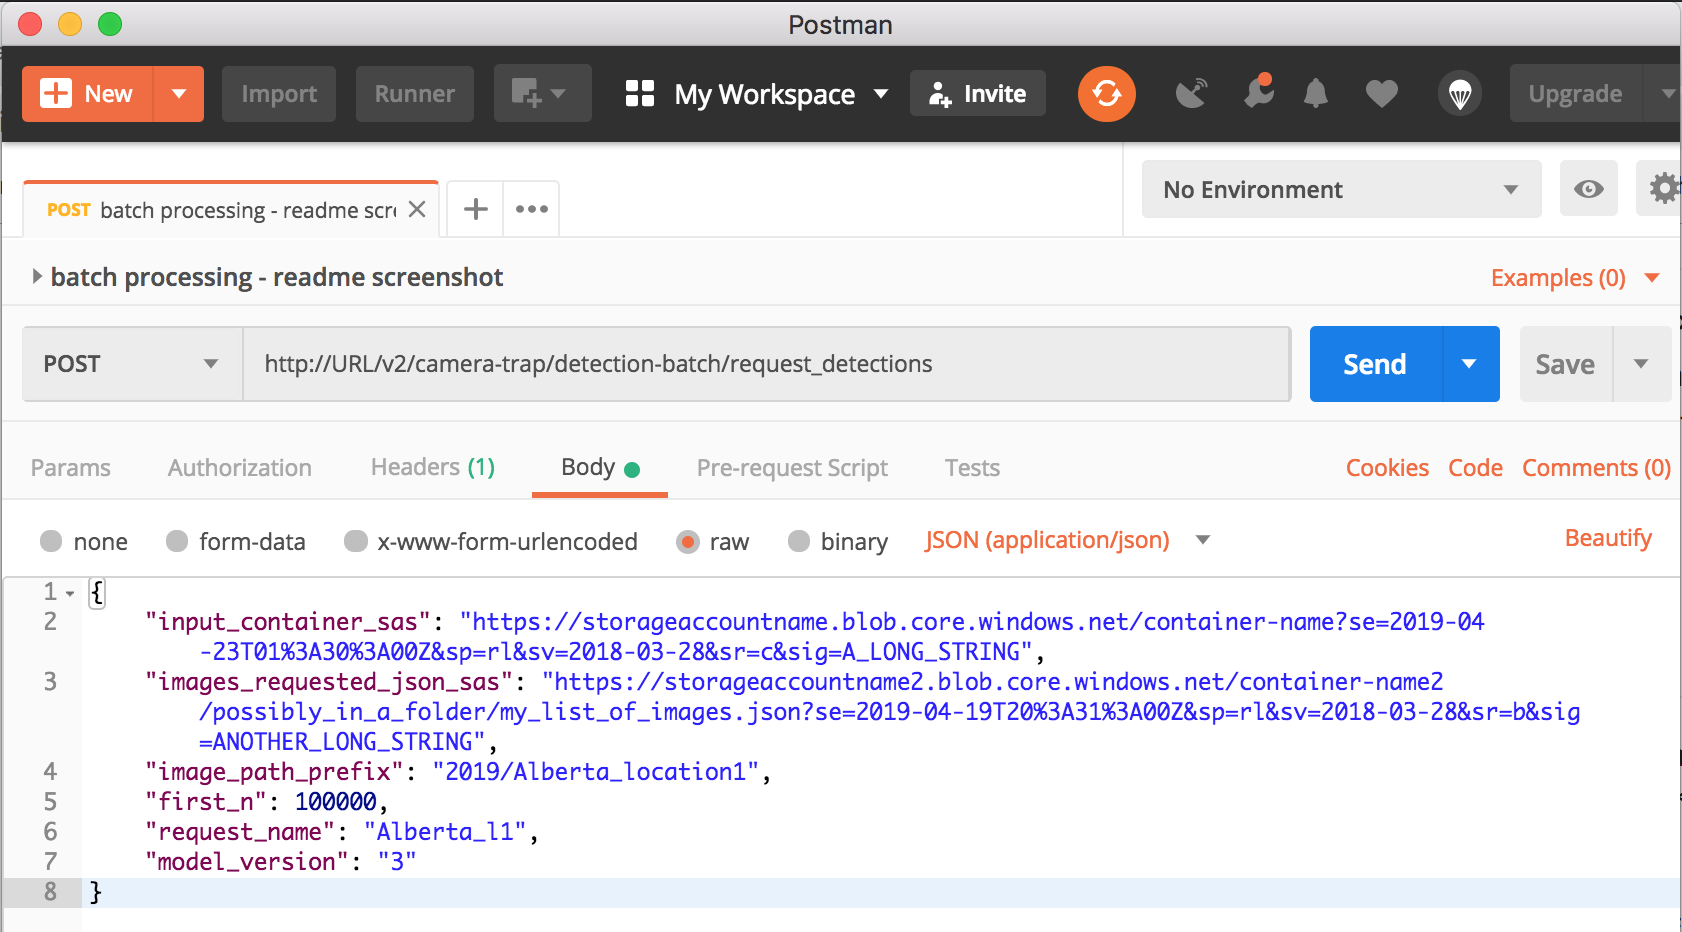
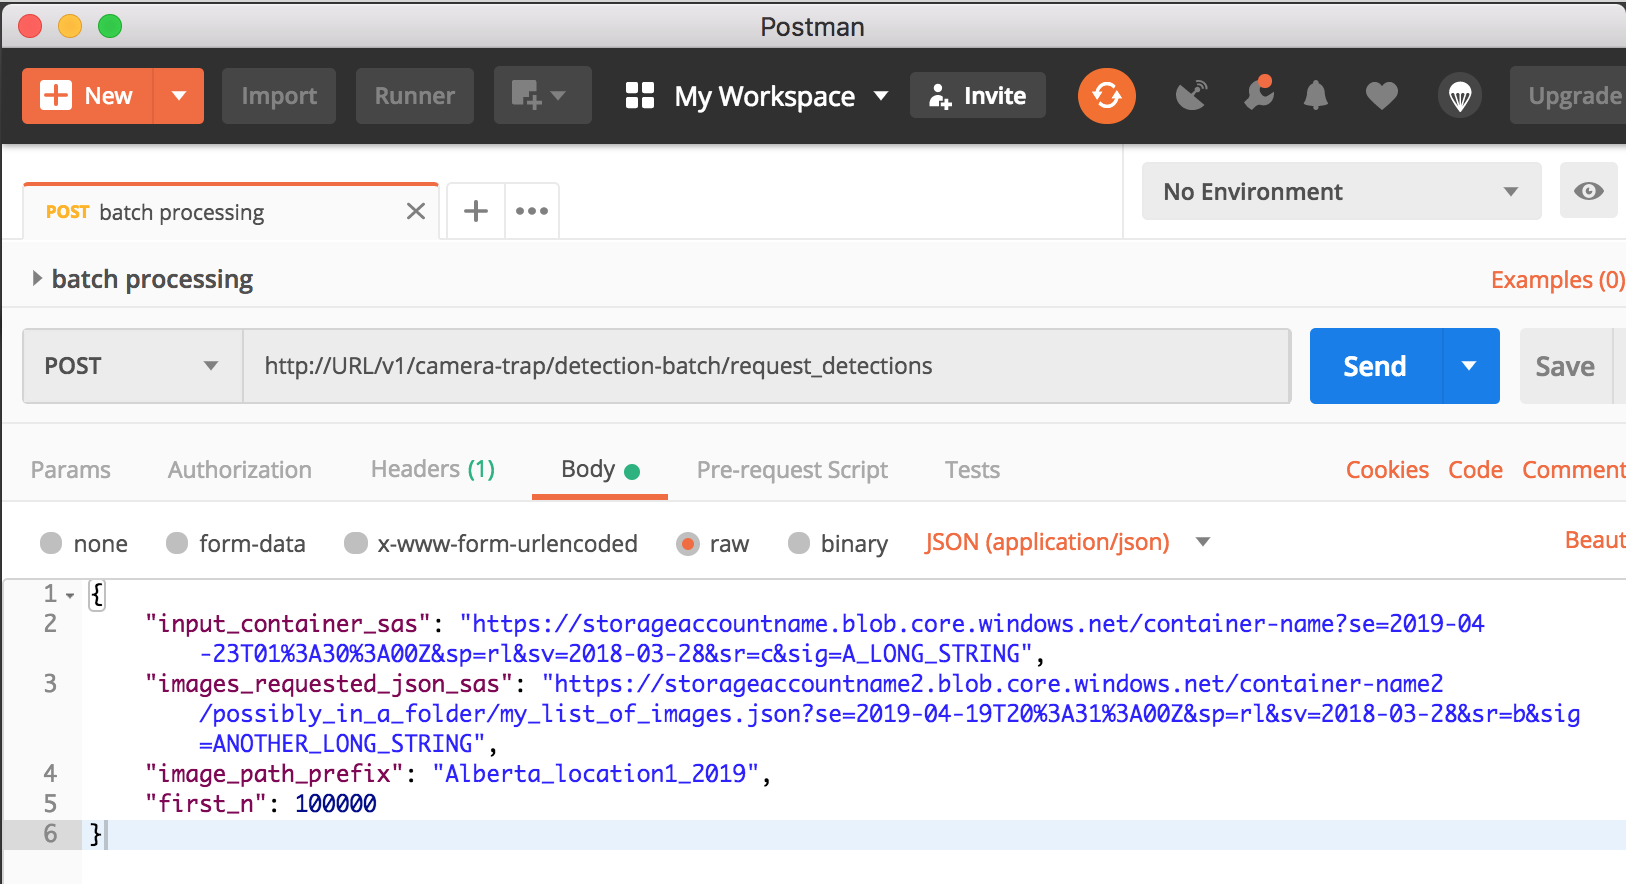
Use new output format. Add request_name and model_version as parameters to the API.
Former-commit-id: a4e58b96b03d6dce2a85e67899db4e080f879cf0

diff --git a/api/batch_processing/api/orchestrator_api/aml_scripts/score.py b/api/batch_processing/api/orchestrator_api/aml_scripts/score.py
@@ -76,21 +76,6 @@ class BatchScorer:
         print('BatchScorer, download_images(), use_url is {}, metadata_available is {}'.format(
             self.use_url, self.metadata_available))
 
-        if not self.use_url:
-            print('blob_service created')
-            blob_service = BlockBlobService(
-                account_name=BatchScorer.get_account_from_uri(self.input_container_sas),
-                sas_token=BatchScorer.get_sas_key_from_uri(self.input_container_sas))
-            container_name = BatchScorer.get_container_from_uri(self.input_container_sas)
-
-        for i in self.image_ids_to_score:
-            if self.metadata_available:
-                image_id = i[0]
-                image_meta = i[1]
-            else:
-                image_id = i
-                image_meta = None
-
         for image_id in self.image_ids_to_score:
             try:
                 if self.use_url:

diff --git a/api/batch_processing/api/orchestrator_api/api_config.py b/api/batch_processing/api/orchestrator_api/api_config.py
@@ -1,3 +1,5 @@
+import json
+
 # name of the container in the internal storage account to store user facing files:
 # image list, detection results and failed images list.
 INTERNAL_CONTAINER = 'async-api-v3-2'
@@ -6,7 +8,7 @@ INTERNAL_CONTAINER = 'async-api-v3-2'
 AML_CONTAINER = 'aml-out-2'
 
 # how often does the checking thread wake up to check if all jobs are done
-MONITOR_PERIOD_MINUTES = 15
+MONITOR_PERIOD_MINUTES = 5
 
 # if this number of times the thread wakes up to check is exceeded, stop the monitoring thread
 MAX_MONITOR_CYCLES = 4 * 7 * int((60 * 24) / MONITOR_PERIOD_MINUTES)  # 4 weeks
@@ -60,7 +62,7 @@ SUPPORTED_MODEL_VERSIONS = sorted([k for k in AML_CONFIG['models']])
 MAX_BLOBS_IN_OUTPUT_CONTAINER = 1000 * 1000
 
 # URLs to the 3 output files expires after this many days
-EXPIRATION_DAYS = 30
+EXPIRATION_DAYS = 14
 
 DETECTION_CATEGORIES = {
     '1': 'animal',

diff --git a/api/batch_processing/api/orchestrator_api/runserver.py b/api/batch_processing/api/orchestrator_api/runserver.py
@@ -134,6 +134,7 @@ def _request_detections(**kwargs):
         if model_version == '':
             model_version = api_config.AML_CONFIG['default_model_version']
         model_name = api_config.AML_CONFIG['models'][model_version]
+        print('runserver.py, model_version to use is {}, model_name is'.format(model_version, model_name))
 
         # request_name and request_submission_timestamp are for appending to output file names
         request_name = body.get('request_name', '')

diff --git a/api/batch_processing/api/orchestrator_api/orchestrator.py b/api/batch_processing/api/orchestrator_api/orchestrator.py
@@ -49,6 +49,7 @@ def get_task_status(request_status, message):
         'message': message
     }
 
+
 def check_data_container_sas(sas_uri):
     permissions = SasBlob.get_permissions_from_uri(sas_uri)
     if 'read' not in permissions or 'list' not in permissions:

diff --git a/api/batch_processing/README.md b/api/batch_processing/README.md
@@ -1,14 +1,9 @@
 
 # Detector batch processing API user guide
 
-We offer a service for processing a large quantity of camera trap images using our [MegaDetector](https://github.com/Microsoft/CameraTraps#megadetector) by calling an API, documented here. The output is most helpful for separating empty from non-empty images based on some detector confidence threshold that you select, and putting bounding boxes around animals so that manual review can proceed faster.
-
-You can process a batch of up to 2 million images in one request to the API. If in addition you have some images that are labeled, we can evaluate the performance of the MegaDetector on your labeled images (see [3. Post processing tools](#3-post-processing-tools)).
-
-If you would like to try automating species identification as well, we can train a project-specific classifier based on the output of this detector API and the labels you provide. The species classification predictions will be added to the detector API output json file.
+We offer a service for processing a large quantity of camera trap images using our [MegaDetector](https://github.com/Microsoft/CameraTraps#megadetector) by calling an API, documented here. You can process a batch of up to 2 million images in one request to the API. If in addition you have some images that are labeled, we can evaluate the performance of the MegaDetector on your labeled images (not documented here).
 
 All references to "container" in this document refer to [Azure Blob Storage](https://azure.microsoft.com/en-us/services/storage/blobs/) containers. 
-
 
 ## 1. Processing time
 
@@ -22,59 +17,51 @@ It takes about 0.8 seconds per image per machine, and we have at most 16 machine
 The endpoints of this API are available at
 
 ```
-http://URL/v2/camera-trap/detection-batch
+http://URL/v1/camera-trap/detection-batch
 ```
 
 #### `/request_detections`
 To submit a request for batch processing, make a POST call to
 
-```http://URL/v2/camera-trap/detection-batch/request_detections```.
+```http://URL/v1/camera-trap/detection-batch/request_detections```.
 
-with a json body containing input fields defined below. The API will return with a json response very quickly to give you a RequestID representing the request you have submitted, for example:
+with a json body containing input fields defined below. The API will return with a json response very quickly to give you a RequestID representing the request you have submitted (or an error message, if your inputs are not acceptable), for example:
 ```json
 {
   "request_id": "13H8A43FDE"
 }
 ```
-or an error message, if your inputs are not acceptable:
-```json
-{
-  "error": "error message."
-}
-```
-
 
 #### `/task`
 Check the status of your request by calling the `/task` endpoint via a GET call, passing in your RequestID:
 
-```http://URL/v2/camera-trap/detection-batch/task/RequestID```
+```http://URL/v1/camera-trap/detection-batch/task/RequestID```
 
-This returns a json with the fields `status`, `uuid`, and a few others. The `status` field is a json object with the following fields: 
+This returns a json with the fields `status`, `uuid`, and a few others. The `status` field contains a stringfield json object with the following fields: 
 
-- `request_status`: one of `running`, `failed`, `problem`, and `completed`. 
+- `request_status`: one of `running`, `failed`, `problem`, and `completed`. The status `failed` indicates that the images have not been submitted to the cluster for processing, and so you can go ahead and call the endpoint again, correcting your inputs according to the message shown. The status `problem` indicates that the images have already been submitted for processing but the API encountered an error while monitoring progress; in this case, *please do not retry*, contact us to retrieve your results so that abandoned jobs are not using up resources. 
 
-    - The status `failed` indicates that the images have not been submitted to the cluster for processing, and so you can go ahead and call the endpoint again, correcting your inputs according to the message shown. 
-    - The status `problem` indicates that the images have already been submitted for processing but the API encountered an error while monitoring progress; in this case, *please do not retry*; contact us to retrieve your results so that no unnecessary processing would occupy the cluster (`message` field will mention "please contact us").
+- `message`: a longer string describing the request_status and any errors; when the request is completed, the URLs to the output files will also be here (see Outputs section below).
 
-- `message`: a longer string describing the `request_status` and any errors; when the request is completed, the URLs to the output files will also be here (see [Outputs](#23-outputs) section below).
-
-- `time`: timestamp in UTC.
+- `time`: timestamp in UTC time.
 
 
 #### `/supported_model_versions`
 Check which versions of the MegaDetector are supported by this API by making a GET call to 
 
-```http://URL/v2/camera-trap/detection-batch/supported_model_versions```
+```http://URL/v1/camera-trap/detection-batch/supported_model_versions```
 
 
 #### `/default_model_version`
 Check which versions of the MegaDetector is used by default by making a GET call to
 
-```http://URL/v2/camera-trap/detection-batch/default_model_version```
+```http://URL/v1/camera-trap/detection-batch/default_model_version```
 
 
 #### Canceling a request
-Not yet supported. If you have accidentally submitted a request, please contact us to cancel it.
+Not yet supported. 
+
+Meanwhile, once the shards of images are submitted for processing, please do not retry if a subsequent call to the `/task` endpoint indicates that there has been a problem. Instead, contact us to retrieve any results. In this case, the `/task` endpoint will return a message object where the `message` field mentions "please contact us", and the `request_status` field is "problem").
 
 
 ### 2.2 Inputs
@@ -86,11 +73,12 @@ Not yet supported. If you have accidentally submitted a request, please contact 
 | image_path_prefix        | No          | string | Only process images whose full path starts with `image_path_prefix` (case-_sensitive_). Note that any image paths specified in `images_requested_json_sas` will need to be the full path from the root of the container, regardless whether `image_path_prefix` is provided. |
 | first_n                  | No          | int | Only process the first `first_n` images. Order of images is not guaranteed, but is likely to be alphabetical. Set this to a small number to avoid taking time to fully list all images in the blob (about 15 minutes for 1 million images) if you just want to try this API. |
 | sample_n                | No          |int | Randomly select `sample_n` images to process. |
-| model_version           | No          |string | Version of the MegaDetector model to use. Default is the most updated stable version (check using the `/default_model_version` endpoint). Supported versions are available at the `/supported_model_versions` endpoint.|
-| request_name            | No          |string | A string (letters, digits, `_`, `-` allowed, max length 32 characters) that will be appended to the output file names to help you identify the resulting files. A timestamp in UTC (`%Y%m%d%H%M%S`) of the time of submission will be appended to the resulting files automatically. |
+| model_version           | No          |string | Version of the MegaDetector model to use. Default is the most updated stable version (check using the `/default_model_version` endpoint). Supported versions can be listed by calling the `/supported_model_versions` endpoint.|
+| request_name            | No          |string | A string (letters, digits, `_`, `-` allowed, max length 32 characters) that will be appended to the output file names to help you identify the resulting files. A timestamp in UTC ("%Y%m%d%H%M%S") of time of submission will be appended to the resulting files automatically. |
 
 - We assume that all images you would like to process in this batch are uploaded to a container in Azure Blob Storage. 
 - Only images with file name ending in '.jpg' or '.jpeg' (case insensitive) will be processed, so please make sure the file names are compliant before you upload them to the container (you cannot rename a blob without copying it entirely once it is in Blob Storage). 
+- The path to the images in blob storage cannot contain commas (this would confuse the output CSV).
 
 - By default we process all such images in the specified container. You can choose to only process a subset of them by specifying the other input parameters, and the images will be filtered out accordingly in this order:
     - `images_requested_json_sas`
@@ -105,10 +93,8 @@ Example body of the POST request:
 {
   "input_container_sas": "https://storageaccountname.blob.core.windows.net/container-name?se=2019-04-23T01%3A30%3A00Z&sp=rl&sv=2018-03-28&sr=c&sig=A_LONG_STRING",
   "images_requested_json_sas": "https://storageaccountname2.blob.core.windows.net/container-name2/possibly_in_a_folder/my_list_of_images.json?se=2019-04-19T20%3A31%3A00Z&sp=rl&sv=2018-03-28&sr=b&sig=ANOTHER_LONG_STRING",
-  "image_path_prefix": "2019/Alberta_location1",
-  "first_n": 100000,
-  "request_name": "Alberta_l1",
-  "model_version": "3"
+  "image_path_prefix": "Alberta_location1_2019",
+  "first_n": 100000
 }
 ```
 
@@ -124,7 +110,7 @@ You can easily generate a [SAS token](https://docs.microsoft.com/en-us/azure/sto
 
 Using Storage Explorer, right click on the container or blob you'd like to grant access for, and choose "Get Shared Access Signature...". On the dialogue window that appears, 
 - cross out the "Start time" field if you will be using the SAS token right away
-- set the "Expiry time" to a date in the future, about a month ahead is reasonable. The SAS token needs to be valid for the duration of the batch processing request. 
+- set the "Expiry time" to a date in the future, about a month ahead is reasonable. The SAS token needs to be valid for the duration of this the batch processing request. 
 - make sure "Read" and "List" are checked under "Permissions" (see screenshot) 
 
 Click "Create", and the "URL" field on the next screen is the value required for `input_container_sas` or `images_requested_json_sas`. 
@@ -134,9 +120,9 @@ Click "Create", and the "URL" field on the next screen is the value required for
 
 ### 2.3 Outputs
 
-Once your request is submitted and parameters validated, the API divides all images into shards of about 2000 images each, and send them to an Azure Machine Learning Service compute cluster for processing. Another process will monitor how many shards have been evaluated, checking every 15 minutes, and update the status of the request, which you can check via the `/task` endpoint. 
+Once your request is submitted and parameters validated, the API divides all images into shards of about 2000 images each, and send them to an Azure Machine Learning compute cluster for processing. Another process will monitor how many shards have been evaluated, checking every 30 minutes, and update the status of the request, which you can check via the `/task` endpoint. 
 
-When all shards have finished processing, the `status` returned by the `/task` endpoint will have the `request_status` field as `completed`, and the `message` field contain a string that can be loaded as a json with 3 fields, each containing an URL to a downloadable file. The returned body looks like
+When all shards have finished processing, the `status` returned by the `/task` endpoint will have a `message` field containing a string that can be loaded as a json, with 3 fields each containing an URL to a downloadable file. The `message` field looks like
 
 ```json
 {
@@ -144,14 +130,13 @@ When all shards have finished processing, the `status` returned by the `/task` e
     "status": {
         "request_status": "completed",
         "time": "2019-05-22 00:31:51",
-        "message": "Completed at 2019-05-22 00:31:51. Number of failed shards: 0. URLs to output files: {'detections': 'https://cameratrap.blob.core.windows.net/async-api-v3-2/3821/3821_detections_Alberta_l1_20190522002119.json?se=2019-06-05T00%3A31%3A51Z&sp=r&sv=2018-03-28&sr=b&sig=hYWcHrnMbZ8EjQ1t4Rmtx0Ay/DZDa%2BsQehBP4/nySko%3D', 'failed_images': 'https://cameratrap.blob.core.windows.net/async-api-v3-2/3821/3821_failed_images_Alberta_l1_20190522002119.json?se=2019-06-05T00%3A31%3A51Z&sp=r&sv=2018-03-28&sr=b&sig=xwoi9tFD9pKhAKdoEwx%2BsnS5gRpEE5x3hR1IY4Jll2Y%3D', 'images': 'https://cameratrap.blob.core.windows.net/async-api-v3-2/3821/3821_images.json?se=2019-06-05T00%3A31%3A51Z&sp=r&sv=2018-03-28&sr=b&sig=llDBCWK%2B%2BQHae5rK7U8RchjPN/DZYb96XHB0r/yX8LU%3D'}"
+        "message": "Completed at 2019-05-22 00:31:51. Number of failed shards: 0. URLs to output files: {'detections': 'https://cameratrap.blob.core.windows.net/async-api-v3-2/3821/3821_detections__20190522002119.json?se=2019-06-05T00%3A31%3A51Z&sp=r&sv=2018-03-28&sr=b&sig=hYWcHrnMbZ8EjQ1t4Rmtx0Ay/DZDa%2BsQehBP4/nySko%3D', 'failed_images': 'https://cameratrap.blob.core.windows.net/async-api-v3-2/3821/3821_failed_images__20190522002119.json?se=2019-06-05T00%3A31%3A51Z&sp=r&sv=2018-03-28&sr=b&sig=xwoi9tFD9pKhAKdoEwx%2BsnS5gRpEE5x3hR1IY4Jll2Y%3D', 'images': 'https://cameratrap.blob.core.windows.net/async-api-v3-2/3821/3821_images.json?se=2019-06-05T00%3A31%3A51Z&sp=r&sv=2018-03-28&sr=b&sig=llDBCWK%2B%2BQHae5rK7U8RchjPN/DZYb96XHB0r/yX8LU%3D'}"
     },
     "timestamp": "2019-05-22 00:21:19",
     "endpoint": "uri"
 }
 ```
- 
- You can parse it to obtain the URLs:
+ which you can parse to obtain the URLs:
 ```python
 import json
 
@@ -165,96 +150,51 @@ url_to_all_images_processed = output_files['images']
 
 ```
 
-<<<<<<< HEAD
-<<<<<<< HEAD
-These URLs are valid for 30 days from the time the request has completed. If you neglected to retrieve them before the links expired, contact us with the RequestID and we can send the results to you. Here are the 3 files to expect:
-=======
-These URLs are valid for 30 days from the time the request has finished. If you neglected to retrieve them before the links expired, contact us with the RequestID and we can send the results to you. Here are the 3 files to expect:
->>>>>>> 073cac4... Modify visualize_detector_output script to use new API output format.
-=======
-These URLs are valid for 30 days from the time the request has completed. If you neglected to retrieve them before the links expired, contact us with the RequestID and we can send the results to you. Here are the 3 files to expect:
->>>>>>> 78a77e5... Update API user guide to reflect new output format.
+These URLs are valid for 14 days from the time the request has finished. If you neglected to retrieve them before the links expired, contact us with the RequestID and we can send the results to you. Here are the 3 files to expect:
 
 | File name                | Description | 
 |--------------------------|-------------|
-| requestID_detections_requestName_timestamp.json | Contains the predictions produced by the detector, in the format defined below.   |
-| requestID_failed_images_requestName_timestamp.json | Contains a list of full paths to images in the blob that the API failed to open or process, possibly because they are corrupted. |
-| requestID_images.json | Contains a list of the full paths to all images that the API was supposed to process, based on the content of the container at the time the API was called and the filtering parameters provided. |
+| RequestID_detections.csv | Contains the result produced by the detector. It is a table with 3 columns (see below for explanation).   |
+| RequestID_failed_images.csv | Contains full paths to images in the blob that the API failed to open, possibly because they are corrupted, or failed to apply the detector model to. |
+| RequestID_images.json | Contains a list of the full paths to all images that the API was supposed to process, based on the content of the container at the time the API was called and the filtering parameters provided. |
 
+#### How to interpret the results
 
-#### Batch processing API output format
+The output of the detector is saved in `RequestID_detections.csv`. It looks like
 
-The output of the detector is saved in `requestID_detections_requestName_timestamp.json`. The `classifications` fields will be added if a classifier was trained for your project and applied to the images. Example output with both detection and classification results:
+| image_path | max_confidence | detections | 
+|------------|----------------|------------|
+| folder/subfolders/image1.JPG | 0.9960 | "[[0.5252, 0.1727, 0.9546, 0.43948, 0.9960], [0.8804, 0.4575, 0.94537, 0.5313, 0.1468]]" |
+| folder/subfolders/image2.JPG | 0.0 | [] |
+| folder/subfolders/image3.jpg | 0.0 | [] |
+| folder/subfolders/image4.jpg | 0.4091 | "[[0.2823, 0.1759, 0.3608, 0.2458, 0.4091]]" |
 
-```json
-{
-    "info": {
-        "detector": "megadetector_v3",
-        "detection_completion_time": "2019-05-22 02:12:19",
-        "classifier": "ecosystem1_v2",
-        "classification_completion_time": "2019-05-26 01:52:08"
-    },
-    "detection_categories": {
-        "1": "animal",
-        "2": "person",
-        "4": "vehicle"
-    },
-    "classification_categories": {
-        "1": "elk",
-        "2": "wolf",
-        "3": "bear",
-        "4": "moose"
-    },
-    "images": [
-        {
-            "file": "/path/from/base/dir/image.jpg",
-            "max_detection_conf": 0.996,
-            "detections": [
-                {
-                    "category": "1",
-                    "conf": 0.926,
-                    "bbox": [0.0, 0.2762, 0.9539, 0.9825], 
-                    "classifications": [
-                        ["3", 0.901],
-                        ["1", 0.071],
-                        ["4", 0.025]
-                    ]
-                },
-                {
-                    "category": "1",
-                    "conf": 0.061,
-                    "bbox": [0.0451, 0.1849, 0.9642, 0.4636]
-                }
-            ]
-        }
-    ]
-}
-```
+The first column contains the full path to the image in the blob container. 
 
-##### Detector outputs
+The second column is the confidence value of the most confident detection on the image (all detections above confidence 0.05 are included so you can select a confidence threshold for determining empty from non-empty).
 
-The bounding box in the `bbox` field is represented as
+The third column contains details of the detections so you can visualize them. It is a stringfied json of a list of lists, representing the detections made on that image. Each detection list has the coordinates of the bounding box surrounding the detection, followed by its confidence:
 
 ```
-[ymin, xmin, ymax, xmax]
+[ymin, xmin, ymax, xmax, confidence, (class)]
 ```
 
-where `(xmin, ymin)` is the upper-left corner of the detection bounding box. The coordinates are relative to the width and height of the image. 
+where `(xmin, ymin)` is the upper-left corner of the detection bounding box. The coordinates are relative to the height and width of the image. 
 
-The detection category `category` can be interpreted using the `detection_categories` dictionary. 
+An integer `class` comes after `confidence` in versions of the API that uses MegaDetector version 3 or later. The `class` label corresponds to the following:
+
+```
+1: animal
+2: person
+4: vehicle
+```
+
+Note that the `vehicle` class (available in Mega Detector version 4 or later) is number 4. Class number 3 (group) is not included in training and should be ignored (and so should any other class labels not listed here) if it shows up in the result.
+
+When the detector model detects no animal (or person or vehicle), the confidence is shown as 0.0 (not confident that there is an object of interest) and the detection column is an empty list.
 
 
-Note that the `vehicle` detection class (available in Mega Detector version 4 or later) is "4". Class number "3" (group) is not included in training and should be ignored (and so should any other class labels not listed here) if it shows up in the result.
-
-When the detector model detects no animal (or person or vehicle), the confidence `conf` is shown as 0.0 (not confident that there is an object of interest) and the `detections` field is an empty list.
-
-
-All detections above confidence threshold 0.05 or 0.1 (depending on the version of the API) are recorded in the output file.
-
-
-##### Classifier outputs
-
-After a classifier is applied, each tuple in a `classifications` list represents `[species, confidence]`. They are listed in order of confidence. The species categories should be interpreted using the `classification_categories` dictionary.
+All detections above confidence threshold 0.05 are recorded in the output file.
 
 
 ## 3. Post-processing tools
